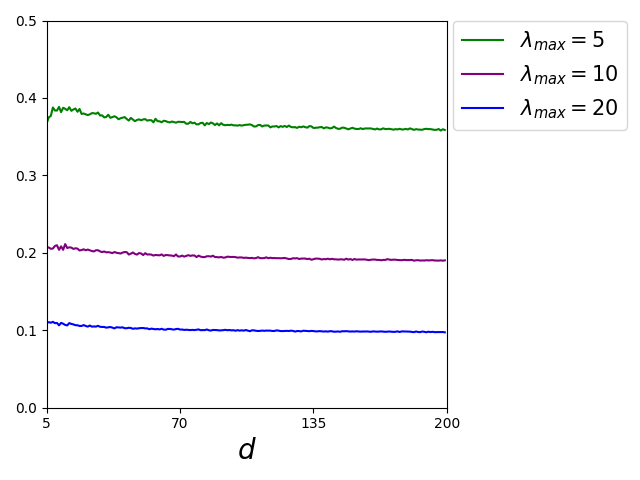
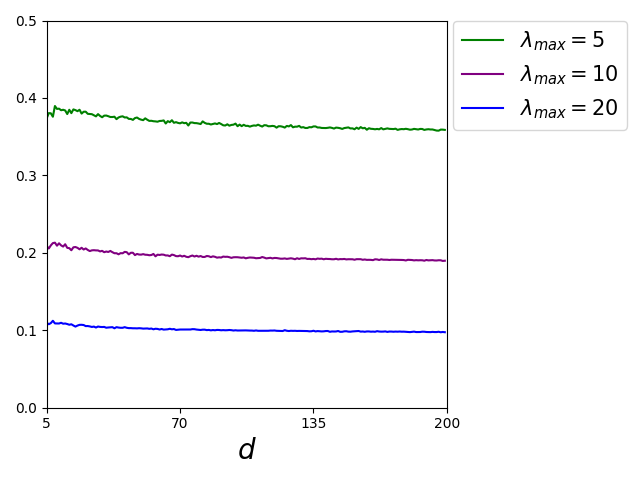
Update numerical experiments

diff --git a/Numerical_Experiments/Approximation of beta/derive_approx.py b/Numerical_Experiments/Approximation of beta/derive_approx.py
@@ -67,7 +67,7 @@ def compute_norm_grad(d, lambda_2, P):
     """
     g = mt_obj.several_quad_gradient
     lambda_1 = 1
-    num = 100
+    num = 30
     store_norm_grad = np.zeros((num))
     store_x0, store_A = (mt_obj.function_parameters_several_quad(
                          P, d, lambda_1, lambda_2))
@@ -109,7 +109,7 @@ def approx_beta_num_exp(d, lambda_2, P):
     return approx_beta(store_norm_grad, d)
 
 
-def diff_d_approx_beta_num_exp(P):
+def diff_d_norm_num_exp(P, start_d, end_d):
     """
     Compute approx of beta.
 
@@ -117,10 +117,42 @@ def diff_d_approx_beta_num_exp(P):
     ----------
     d : integer
         Size of dimension.
-    lambda_2 : integer
-               Largest eigenvalue.
-    P : integer
-        Number of local minima.
+    start_d : integer
+              First dimension to test.
+    end_d : integer
+            Last dimension to test.
+
+    Returns
+    -------
+    value : float
+            Approx beta.
+    """
+    store_norms = np.zeros((end_d - start_d, 3))
+    index = 0
+    for d in tqdm.tqdm(np.arange(start_d, end_d)):
+        test_num = np.zeros((3, 100))
+        for i in range(100):
+            test_num[0, i] = 1 / compute_norm_grad(int(d), 5, P)
+            test_num[1, i] = 1 / compute_norm_grad(int(d), 10, P)
+            test_num[2, i] = 1 / compute_norm_grad(int(d), 20, P)
+        store_norms[index, 0] = np.mean(test_num[0])
+        store_norms[index, 1] = np.mean(test_num[1])
+        store_norms[index, 2] = np.mean(test_num[2])
+        index += 1
+    return store_norms
+
+def diff_d_approx_beta_num_exp(P, start_d, end_d):
+    """
+    Compute approx of beta.
+
+    Parameters
+    ----------
+    d : integer
+        Size of dimension.
+    start_d : integer
+              First dimension to test.
+    end_d : integer
+            Last dimension to test.
 
     Returns
     -------
@@ -147,12 +179,8 @@ def create_plot_avg_norm_grads(P, start_d, end_d, labels):
     Plot of the average norm of the gradient for different d.
     """
     plt.clf()
-    store_norms = np.zeros((end_d-start_d, 3))
     np.random.seed(start_d)
-    for d in np.arange(start_d, end_d):
-        store_norms[d-start_d, 0] = (1 / compute_norm_grad(int(d), 5, P))
-        store_norms[d-start_d, 1] = (1 / compute_norm_grad(int(d), 10, P))
-        store_norms[d-start_d, 2] = (1 / compute_norm_grad(int(d), 20, P))
+    store_norms = diff_d_norm_num_exp(P, start_d, end_d)
     plt.plot(np.arange(start_d, end_d), store_norms[:, 0], color='green')
     plt.plot(np.arange(start_d, end_d), store_norms[:, 1], color='purple')
     plt.plot(np.arange(start_d, end_d), store_norms[:, 2], color='blue')
@@ -184,12 +212,12 @@ def create_plot_const_approx_beta(start_d, end_d):
     plt.savefig('quad_const_approx_beta.png')
 
 
-def create_plot_approx_beta(P, labels):
+def create_plot_approx_beta(P, labels, start_d, end_d):
     """
     Plot of approx_beta for different d.
     """
     plt.clf()
-    store_norms = diff_d_approx_beta_num_exp(P)
+    store_norms = diff_d_approx_beta_num_exp(P, start_d, end_d)
     plt.ylim(0, 0.5)
     plt.plot(np.arange(start_d, end_d), store_norms[:, 0], color='green')
     plt.plot(np.arange(start_d, end_d), store_norms[:, 1], color='purple')
@@ -214,4 +242,4 @@ if __name__ == "__main__":
               r'$\lambda_{max} = 20$']
     create_plot_avg_norm_grads(P, start_d, end_d, labels)
     create_plot_const_approx_beta(start_d, end_d)
-    create_plot_approx_beta(P, labels)
+    create_plot_approx_beta(P, labels, start_d, end_d)

diff --git a/Numerical_Experiments/Approximation of beta/approx_beta.py b/Numerical_Experiments/Approximation of beta/approx_beta.py
@@ -41,7 +41,7 @@ def numerical_quad_exp(P, d_list, lambda_2, seed):
     lambda_2 : integer
                Largest eigenvalue of diagonal matrix.
     seed : integer
-            Random seed used to initialize the pseudo-random number generator.
+           Random seed used to initialize the pseudo-random number generator.
 
     Returns
     -------
@@ -55,6 +55,7 @@ def numerical_quad_exp(P, d_list, lambda_2, seed):
     num_func = 100
     store_quantity = np.zeros((len(d_list), num_func))
     index = 0
+    np.random.seed(seed)
     for d in d_list:
         for i in range(num_func):
             store_x0, store_A = (mt_obj.function_parameters_several_quad(
@@ -238,8 +239,7 @@ if __name__ == "__main__":
         store_all_quantity = np.zeros((len(lambda_list), len(d_list), 100))
         index = 0
         for lambda_2 in tqdm.tqdm(lambda_list):
-            store_all_quantity[index] = numerical_quad_exp(P, d_list, lambda_2,
-                                                           seed)
+            store_all_quantity[index] = numerical_quad_exp(P, d_list, lambda_2, seed)
             index += 1
         ticks = d_list
         labels = [r'$\lambda_{max} = 5$',

diff --git a/Numerical_Experiments/METOD_paper/data_analysis.py b/Numerical_Experiments/METOD_paper/data_analysis.py
@@ -386,8 +386,12 @@ def produce_freq_of_descents_graphs(beta_list, func_name, d, p, set_x,
     plt.xticks(x + (w * - 0.52), beta_list)
     plt.xlabel(r'$\beta $')
 
-    purple_patch = mpatches.Patch(color='purple', label=r'$M=2$')
-    blue_patch = mpatches.Patch(color='blue', label=r'$M=3$')
+    if type_func == 'new' and func_name == 'quad':
+        purple_patch = mpatches.Patch(color='purple', label=r'$M=1$')
+        blue_patch = mpatches.Patch(color='blue', label=r'$M=2$')
+    else:
+        purple_patch = mpatches.Patch(color='purple', label=r'$M=2$')
+        blue_patch = mpatches.Patch(color='blue', label=r'$M=3$')
 
     lgd = plt.legend(handles=[purple_patch, blue_patch], loc='upper right',
                      bbox_to_anchor=(1, 1), borderaxespad=0.)

diff --git a/Numerical_Experiments/METOD_algorithm_numerical_examples/metod_numerical_exp_boxplots.py b/Numerical_Experiments/METOD_algorithm_numerical_examples/metod_numerical_exp_boxplots.py
@@ -807,11 +807,6 @@ if __name__ == "__main__":
      grad_evals_mult) = data_boxplots(func_name, d, p, num_p, beta_list,
                                       m_list,  set_x, option, initial_guess)
 
-    total_no_minimizers_prop = (total_no_local_minimizers_metod /
-                                total_no_local_minimizers_mult)
-
-    time_taken_prop = time_taken_metod / time_taken_mult
-
     extra_descents_prop = ((extra_descents_metod +
                             total_no_local_minimizers_metod) /
                            (num_p))
